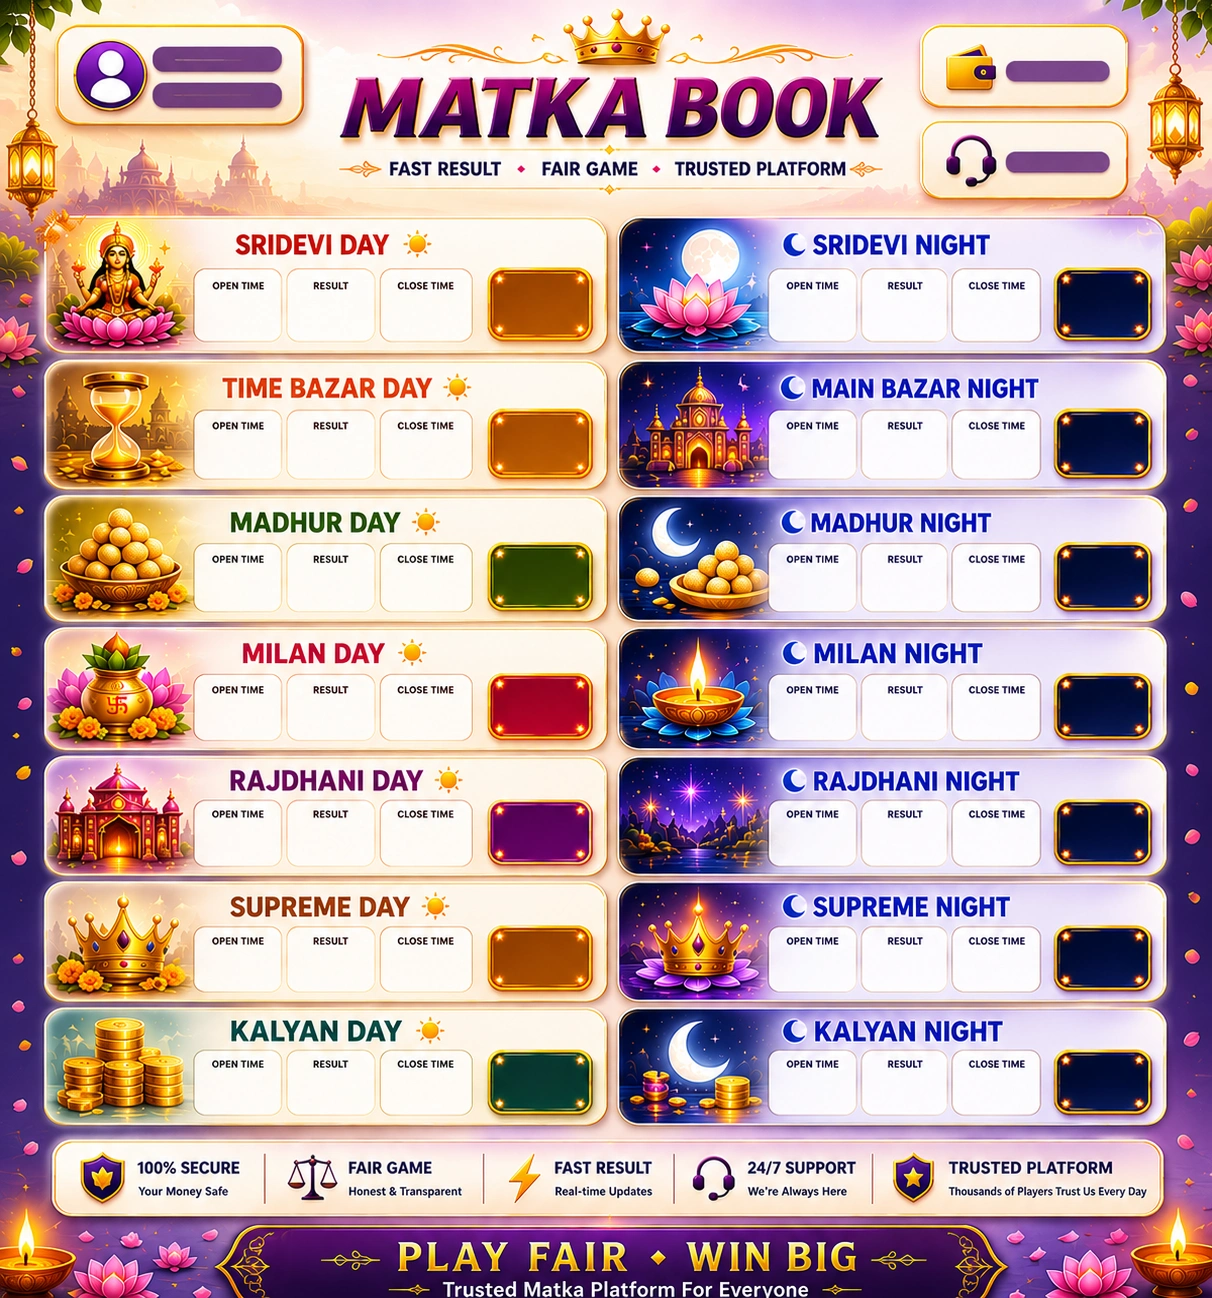
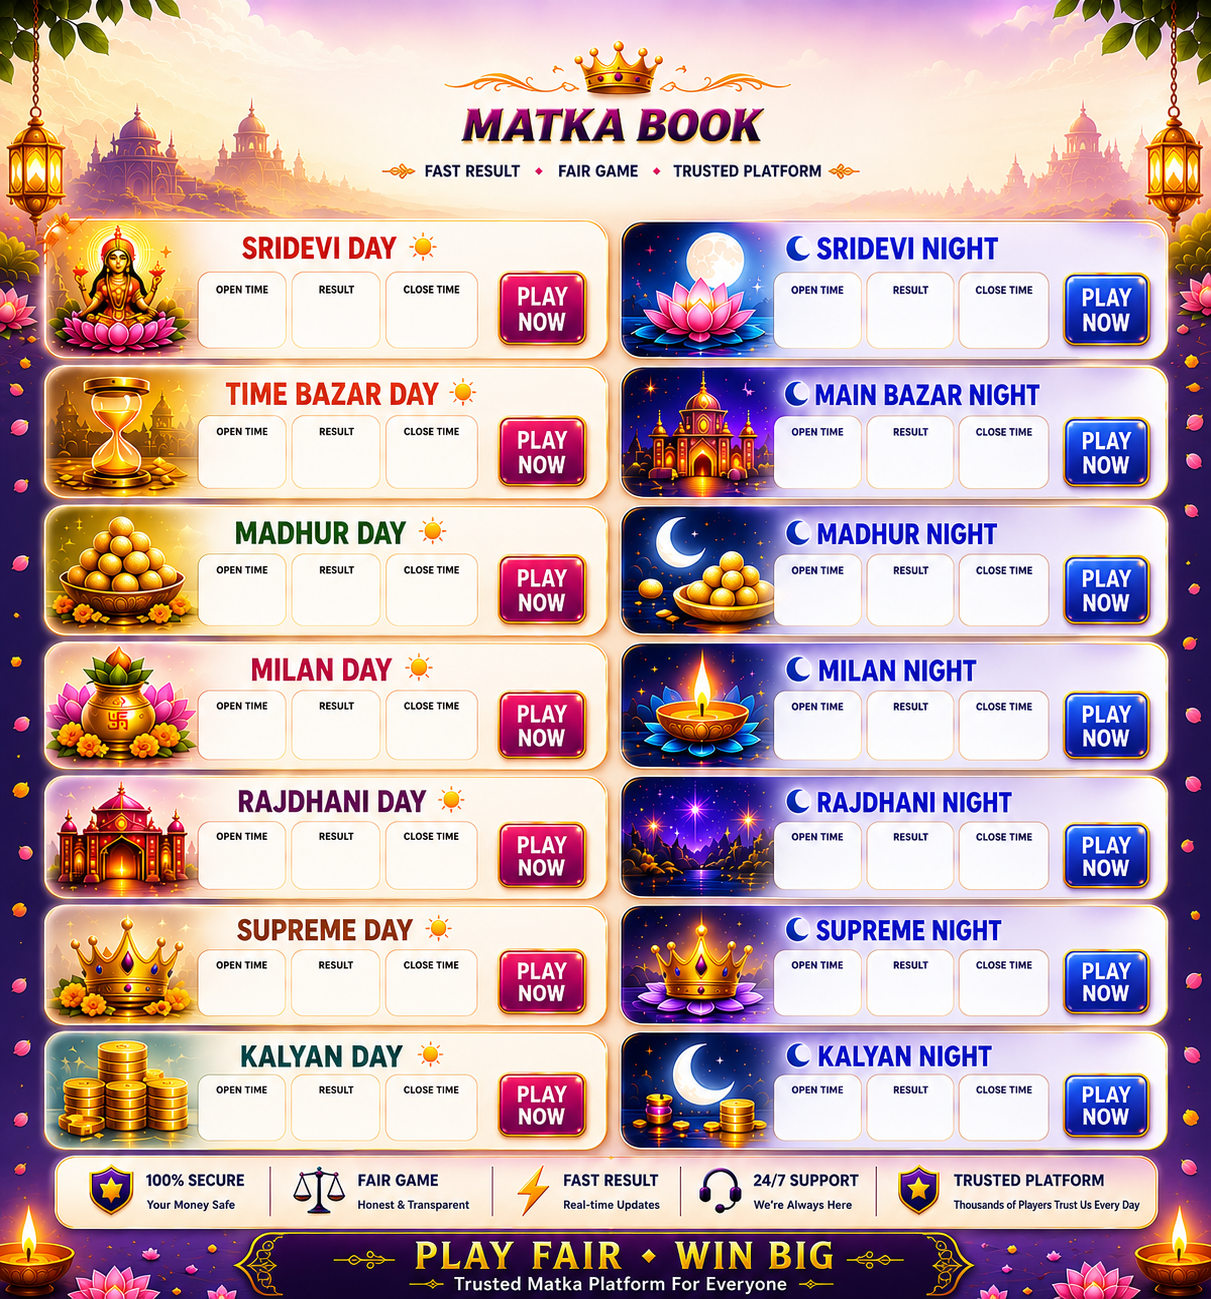
matka working

diff --git a/frontend/src/games/matka/matkaDashboard.css b/frontend/src/games/matka/matkaDashboard.css
@@ -13,7 +13,7 @@ body{background:#f3dfc1;font-family:Arial,sans-serif}
 .mk-play-now{position:absolute;width:92px;height:62px;border:0;border-radius:14px;background:linear-gradient(180deg,#ff2aa0,#8c22ff);color:#fff;cursor:pointer;z-index:30;font-size:18px;font-weight:1000;line-height:1;box-shadow:0 0 15px rgba(150,0,255,.45),inset 0 0 10px rgba(255,255,255,.3)}
 .mk-play-now:hover{filter:brightness(1.12);transform:scale(1.03)}
 
-.card-0{left:220px;top:270px}.card-0 .mk-open-time{left:0;top:56px}.card-0 .mk-result-main{left:90px;top:50px}.card-0 .mk-close-time{left:178px;top:56px}.card-0 .mk-play-now{left:305px;top:32px}
+.card-0{left:225px;top:270px}.card-0 .mk-open-time{left:0;top:56px}.card-0 .mk-result-main{left:90px;top:50px}.card-0 .mk-close-time{left:180px;top:56px}.card-0 .mk-play-now{left:305px;top:32px}
 .card-2{left:220px;top:420px}.card-2 .mk-open-time{left:0;top:56px}.card-2 .mk-result-main{left:90px;top:50px}.card-2 .mk-close-time{left:178px;top:56px}.card-2 .mk-play-now{left:305px;top:38px}
 .card-4{left:220px;top:570px}.card-4 .mk-open-time{left:0;top:56px}.card-4 .mk-result-main{left:90px;top:50px}.card-4 .mk-close-time{left:178px;top:56px}.card-4 .mk-play-now{left:305px;top:34px}
 .card-6{left:220px;top:710px}.card-6 .mk-open-time{left:0;top:56px}.card-6 .mk-result-main{left:90px;top:50px}.card-6 .mk-close-time{left:178px;top:56px}.card-6 .mk-play-now{left:305px;top:36px}
